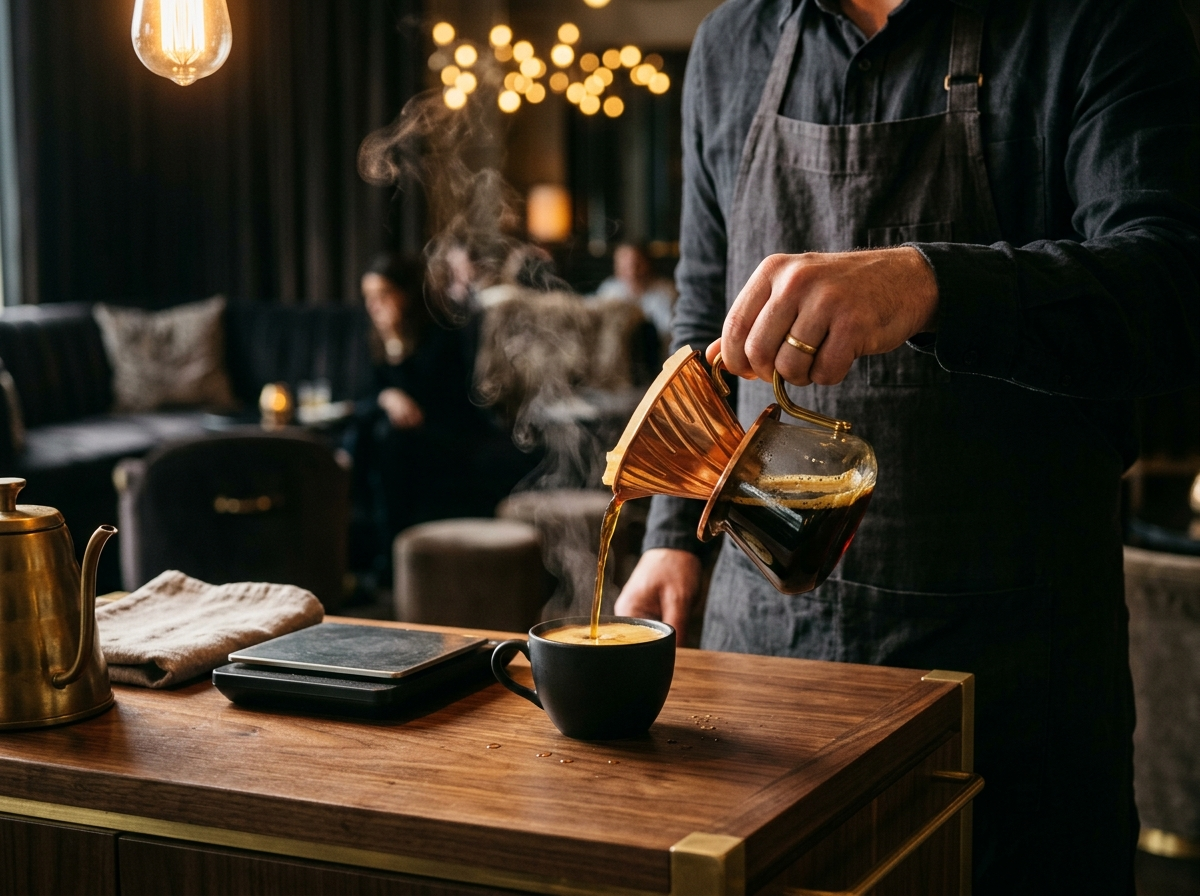
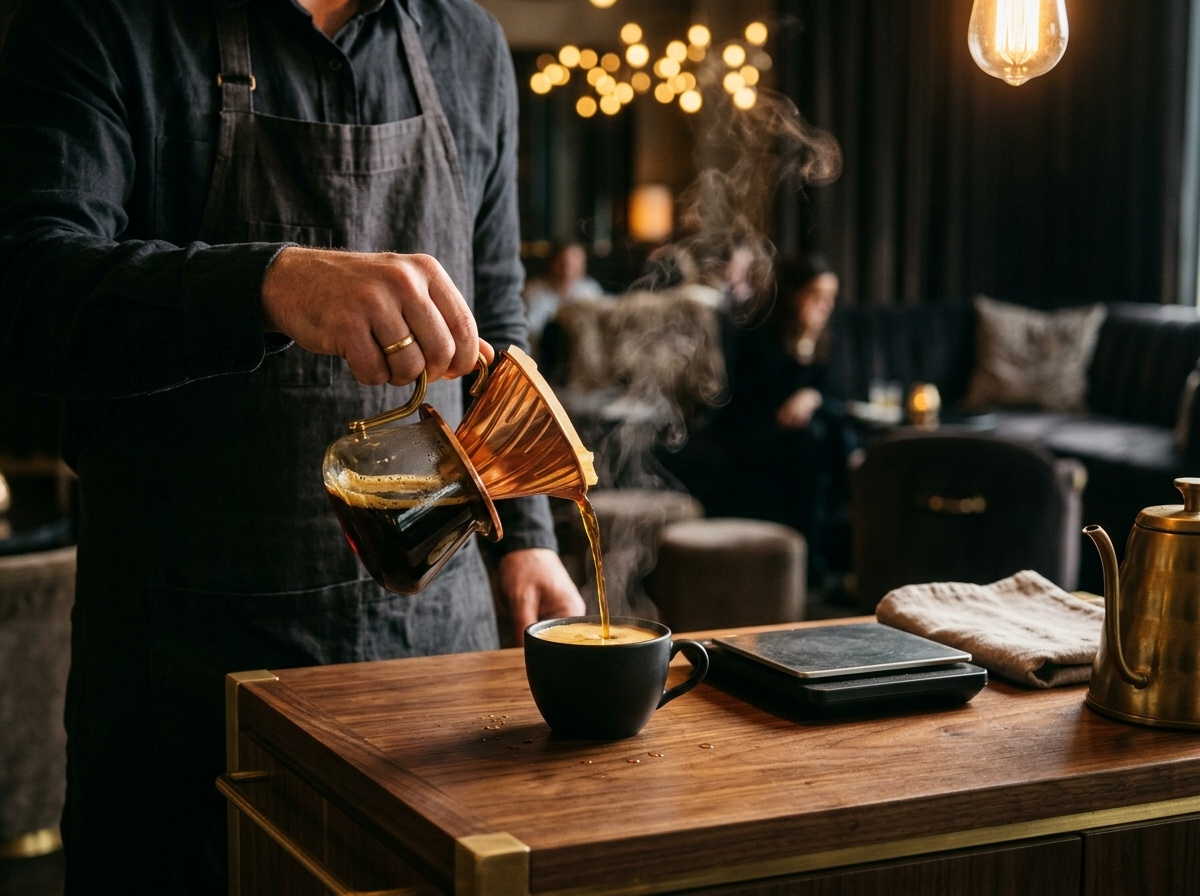
fix(story): mirror background image to left and align editorial card to eliminate overlap

diff --git a/the-cafe-barrackpore/src/components/OurStory.tsx b/the-cafe-barrackpore/src/components/OurStory.tsx
@@ -41,10 +41,8 @@ export const OurStory: React.FC = () => {
     });
   }, [scrollYProgress]);
 
-  // High-performance WebP story asset
-  const storyImageSrc = (ourStory?.src && !ourStory.src.includes('story-luxury-pour'))
-    ? ourStory.src
-    : '/images/story-pour.webp';
+  // High-performance story photography asset
+  const storyImageSrc = ourStory?.src || '/images/story-luxury-pour.jpg';
 
   const chapters: StoryChapter[] = [
     {
@@ -95,22 +93,22 @@ export const OurStory: React.FC = () => {
         <div className="relative w-full h-full p-1.5 sm:p-2 rounded-[2rem] sm:rounded-[2.5rem] lg:rounded-[3rem] bg-gradient-to-b from-white/15 via-white/[0.04] to-white/10 ring-1 ring-[#D4AF37]/35 shadow-[0_30px_90px_rgba(0,0,0,0.95)]">
           <div className="relative w-full h-full rounded-[calc(2rem-0.375rem)] sm:rounded-[calc(2.5rem-0.5rem)] lg:rounded-[calc(3rem-0.5rem)] overflow-hidden bg-[#0A0706]">
             
-            {/* 1. CRYSTAL-CLEAR CINEMATIC BACKGROUND IMAGE (High visibility, zero black smothering) */}
+            {/* 1. CRYSTAL-CLEAR CINEMATIC BACKGROUND IMAGE (Barista pour on left, editorial space on right) */}
             <motion.img
               src={storyImageSrc}
               alt={ourStory?.alt || 'The Café Barrackpore Artisanal Coffee Pour'}
               style={{ scale: bgScale }}
-              className="absolute inset-0 w-full h-full object-cover object-[center_35%] lg:object-center filter brightness-[0.98] contrast-[1.08] saturate-[1.05]"
+              className="absolute inset-0 w-full h-full object-cover object-[25%_center] md:object-[30%_center] lg:object-center filter brightness-[0.98] contrast-[1.08] saturate-[1.05]"
               loading="lazy"
               decoding="async"
             />
 
-            {/* 2. REFINED SUBTLE VIGNETTES (Keeps photography bright, warm and visible) */}
+            {/* 2. REFINED SUBTLE VIGNETTES (Protects typography readability while leaving the left pour crystal clear) */}
             <div className="absolute inset-0 bg-gradient-to-t from-black/85 via-black/25 to-black/35 pointer-events-none" />
-            <div className="absolute inset-0 bg-gradient-to-r from-transparent via-transparent to-black/75 hidden md:block pointer-events-none" />
+            <div className="absolute inset-0 bg-gradient-to-r from-transparent via-black/20 to-black/80 hidden md:block pointer-events-none" />
 
-            {/* Ambient Golden Filament Lighting Flare */}
-            <div className="absolute top-10 left-10 w-80 h-80 bg-[#D4AF37]/20 blur-[100px] rounded-full pointer-events-none" />
+            {/* Ambient Golden Filament Lighting Flare (Aligned with top-right glowing pendant bulb) */}
+            <div className="absolute top-6 right-8 sm:top-10 sm:right-16 w-80 h-80 bg-[#D4AF37]/25 blur-[100px] rounded-full pointer-events-none" />
 
             {/* 3. PINNED HUD TELEMETRY HEADER */}
             <div className="absolute top-4 left-4 right-4 sm:top-7 sm:left-8 sm:right-8 flex items-center justify-between z-20 pointer-events-none">
@@ -128,8 +126,8 @@ export const OurStory: React.FC = () => {
               </div>
             </div>
 
-            {/* 4. FLOATING EDITORIAL CHAPTER CARD (Positioned gracefully, never clipped) */}
-            <div className="absolute inset-x-4 bottom-14 sm:bottom-16 md:bottom-auto md:top-1/2 md:-translate-y-1/2 md:right-8 md:left-auto md:max-w-xl z-20">
+            {/* 4. FLOATING EDITORIAL CHAPTER CARD (Positioned gracefully on right, zero overlap with coffee pour) */}
+            <div className="absolute inset-x-4 bottom-14 sm:bottom-16 md:bottom-auto md:top-1/2 md:-translate-y-1/2 md:right-6 lg:right-10 md:left-auto md:max-w-lg lg:max-w-xl z-20">
               <AnimatePresence mode="wait">
                 <motion.div
                   key={currentChapter.id}

diff --git a/the-cafe-barrackpore/src/components/Footer.tsx b/the-cafe-barrackpore/src/components/Footer.tsx
@@ -153,23 +153,23 @@ export const Footer: React.FC = () => {
               Cuisine &amp; Curations
             </h4>
             <div className="flex flex-col gap-2.5 text-xs font-sans">
-              <a className="hover:text-primary transition-colors py-0.5 inline-flex items-center gap-1 group" href="#" onClick={(e) => handleNav(e, 'menu-section')}>
+              <a className="text-on-surface/75 hover:text-primary transition-colors py-0.5 inline-flex items-center gap-1 group" href="#" onClick={(e) => handleNav(e, 'menu-section')}>
                 <span className="w-1 h-1 rounded-full bg-primary/40 group-hover:bg-primary transition-colors" />
                 <span>Artisanal Single-Origin Brews</span>
               </a>
-              <a className="hover:text-primary transition-colors py-0.5 inline-flex items-center gap-1 group" href="#" onClick={(e) => handleNav(e, 'chef-specials')}>
+              <a className="text-on-surface/75 hover:text-primary transition-colors py-0.5 inline-flex items-center gap-1 group" href="#" onClick={(e) => handleNav(e, 'chef-specials')}>
                 <span className="w-1 h-1 rounded-full bg-primary/40 group-hover:bg-primary transition-colors" />
                 <span>Chef's Signature Banquets</span>
               </a>
-              <a className="hover:text-primary transition-colors py-0.5 inline-flex items-center gap-1 group" href="#" onClick={(e) => handleNav(e, 'menu-section')}>
+              <a className="text-on-surface/75 hover:text-primary transition-colors py-0.5 inline-flex items-center gap-1 group" href="#" onClick={(e) => handleNav(e, 'menu-section')}>
                 <span className="w-1 h-1 rounded-full bg-primary/40 group-hover:bg-primary transition-colors" />
                 <span>Wood-Fired Pizzas &amp; Dim Sums</span>
               </a>
-              <a className="hover:text-primary transition-colors py-0.5 inline-flex items-center gap-1 group" href="#" onClick={(e) => handleNav(e, 'menu-section')}>
+              <a className="text-on-surface/75 hover:text-primary transition-colors py-0.5 inline-flex items-center gap-1 group" href="#" onClick={(e) => handleNav(e, 'menu-section')}>
                 <span className="w-1 h-1 rounded-full bg-primary/40 group-hover:bg-primary transition-colors" />
                 <span>Lounge Mocktails &amp; Cold Drips</span>
               </a>
-              <a className="hover:text-primary transition-colors py-0.5 inline-flex items-center gap-1 group" href="#" onClick={(e) => handleNav(e, 'gallery')}>
+              <a className="text-on-surface/75 hover:text-primary transition-colors py-0.5 inline-flex items-center gap-1 group" href="#" onClick={(e) => handleNav(e, 'gallery')}>
                 <span className="w-1 h-1 rounded-full bg-primary/40 group-hover:bg-primary transition-colors" />
                 <span>Atmosphere &amp; Private Booths</span>
               </a>
@@ -225,7 +225,7 @@ export const Footer: React.FC = () => {
               </div>
               <div className="flex items-center gap-2.5 pt-1">
                 <span className="material-symbols-outlined text-primary text-base shrink-0 font-light">phone_in_talk</span>
-                <a className="hover:text-primary transition-colors font-medium" href={`tel:${phone}`}>
+                <a className="text-on-surface/85 hover:text-primary transition-colors font-medium" href={`tel:${phone}`}>
                   {displayPhone}
                 </a>
               </div>

diff --git a/the-cafe-barrackpore/scripts/prerender.ts b/the-cafe-barrackpore/scripts/prerender.ts
@@ -27,6 +27,21 @@ async function prerender() {
 
   const baseTemplate = fs.readFileSync(templatePath, 'utf-8');
 
+  // Inlining stylesheet to eliminate render-blocking stylesheet requests
+  const assetsDir = path.resolve(distDir, 'assets');
+  let inlinedTemplate = baseTemplate;
+  if (fs.existsSync(assetsDir)) {
+    const cssFile = fs.readdirSync(assetsDir).find(f => f.startsWith('index-') && f.endsWith('.css'));
+    if (cssFile) {
+      const cssContent = fs.readFileSync(path.resolve(assetsDir, cssFile), 'utf-8');
+      inlinedTemplate = inlinedTemplate.replace(
+        new RegExp(`<link[^>]+href="[^"]*${cssFile}"[^>]*>`, 'i'),
+        `<style id="app-styles">\n${cssContent}\n</style>`
+      );
+      console.log(`⚡ Inlined critical CSS "${cssFile}" (${Math.round(cssContent.length / 1024)} kB) into HTML`);
+    }
+  }
+
   // 1. Build SSR server entry
   console.log('📦 Compiling SSR bundle with Vite...');
   execSync('npx vite build --ssr src/entry-server.tsx --outDir dist-server', {
@@ -44,7 +59,7 @@ async function prerender() {
     const { html, seo } = render(route.url);
 
     // Build head tags replacement
-    let pageHtml = baseTemplate;
+    let pageHtml = inlinedTemplate;
 
     // 1. Replace document title
     pageHtml = pageHtml.replace(/<title>.*?<\/title>/is, `<title>${seo.title}</title>`);

diff --git a/the-cafe-barrackpore/index.html b/the-cafe-barrackpore/index.html
@@ -6,7 +6,7 @@
     <meta name="viewport" content="width=device-width, initial-scale=1.0" />
     <meta name="theme-color" content="#110B08" />
     <!-- Preload critical local fonts for instantaneous zero-latency FCP and LCP text paint -->
-    <link rel="preload" href="/fonts/outfit-latin.woff2" as="font" type="font/woff2" crossorigin />
+    <link rel="preload" href="/fonts/outfit-latin.woff2" as="font" type="font/woff2" crossorigin fetchpriority="high" />
     <link rel="preload" href="/fonts/playfair-italic.woff2" as="font" type="font/woff2" crossorigin />
 
     <!-- Preload critical LCP hero asset -->
